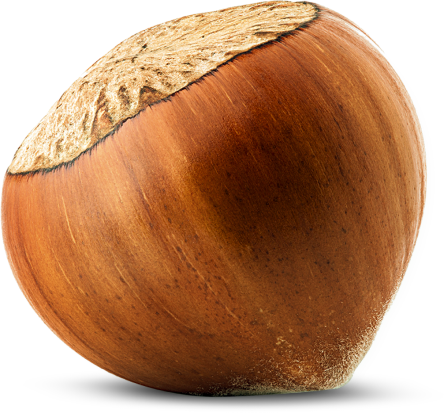
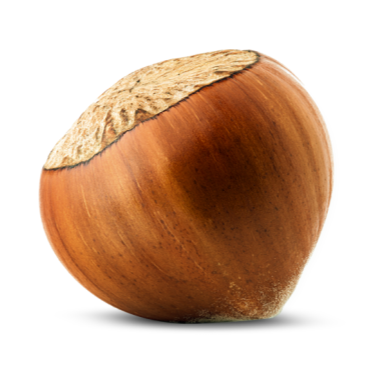
pause

diff --git a/Html.MixedNuts/javascript/cardsNutsData.js b/Html.MixedNuts/javascript/cardsNutsData.js
@@ -126,67 +126,6 @@ define([
       gCardConfigs.push(cardConfig);
     }
 
-    // Normal nut: "thinking about it" side.
-    for (var i = 0; i < gameInfo.nutTypesArray.length; i++) {
-      var nutType = gameInfo.nutTypesArray[i];
-      var cardConfig = getBasicConfigForNutType(nutType);
-      cardConfig.classes.push("question");
-      cardConfig.classes.push("decorated");
-      cardConfig.question = true;
-      gCardConfigs.push(cardConfig);
-    }
-
-    // Board markers
-    var requiredPlacementNutTypes = [
-      gameInfo.nutTypes.Cashew,
-      gameInfo.nutTypes.Almond,
-      gameInfo.nutTypes.Macadamia,
-      gameInfo.nutTypes.Pistachio,
-      gameInfo.nutTypes.Walnut,
-    ];
-    // Must be <this nut>
-    for (var i = 0; i < requiredPlacementNutTypes.length; i++) {
-      var nutType = requiredPlacementNutTypes[i];
-      var cardConfig = getBasicConfigForNutType(nutType);
-      cardConfig.classes.push("required");
-      cardConfig.classes.push("decorated");
-      cardConfig.classes.push("space-config");
-      cardConfig.required = true;
-      gCardConfigs.push(cardConfig);
-    }
-
-    var bonusPlacementNutTypes = [
-      gameInfo.nutTypes.Peanut,
-      gameInfo.nutTypes.Cashew,
-      gameInfo.nutTypes.Almond,
-      gameInfo.nutTypes.Macadamia,
-      gameInfo.nutTypes.Pistachio,
-      gameInfo.nutTypes.Walnut,
-    ];
-    // bonus for "this nut".
-    for (var i = 0; i < bonusPlacementNutTypes.length; i++) {
-      var nutType = bonusPlacementNutTypes[i];
-      var cardConfig = getBasicConfigForNutType(nutType);
-      cardConfig.classes.push("bonus");
-      cardConfig.classes.push("decorated");
-      cardConfig.classes.push("space-config");
-      cardConfig.bonus = 5;
-      gCardConfigs.push(cardConfig);
-    }
-
-    // Must be same or different.
-    var cardsEqualConfig = {};
-    cardsEqualConfig.classes = ["nuts", "card", "space-config", "equal"];
-    cardsEqualConfig.mustMatch = true;
-    cardsEqualConfig.color = "#abacab";
-    gCardConfigs.push(cardsEqualConfig);
-
-    var cardsNotEqualConfig = {};
-    cardsNotEqualConfig.classes = ["nuts", "card", "space-config", "not-equal"];
-    cardsNotEqualConfig.mustMatch = false;
-    cardsNotEqualConfig.color = "#fe6060";
-    gCardConfigs.push(cardsNotEqualConfig);
-
     return gCardConfigs;
   }
 

diff --git a/Html.MixedNuts/css/cards-nuts-simple.css b/Html.MixedNuts/css/cards-nuts-simple.css
@@ -11,11 +11,6 @@
   border-radius: 50%;
 }
 
-.card.front.nuts.space-config,
-.card.back.nuts.space-config {
-  border-radius: 20%;
-}
-
 .card.front.nuts {
   display: flex;
   flex-direction: column;
@@ -26,38 +21,11 @@
   border-style: solid;
   overflow: visible;
 }
-.card.front.nuts .equal,
-.card.front.nuts .not-equal {
-  color: #000000;
-  -webkit-text-stroke: 2px #ffff00;
-  font-size: 140px;
-}
-.card.front.nuts .not-equal {
-  -webkit-text-stroke: 4px #ffff00;
-}
 .card.front.nuts .drop_shadow.pseudo-image {
   filter: drop-shadow(3px 3px 6px rgba(0, 0, 0, 0.4));
 }
-.card.front.nuts .space-config {
-  display: flex;
-  flex-direction: column;
-  justify-content: center;
-  align-items: center;
-  position: absolute;
-  z-index: 30;
-  color: #000000;
-  -webkit-text-stroke: 2px #ffff00;
-  font-size: 100px;
-  top: 0px;
-  left: 20px;
-}
-.card.front.nuts .space-config.bonus {
-  font-size: 80px;
-  left: 0px;
-}
 .card.front.nuts .main-wrapper {
   z-index: 1;
-  margin-top: 30px;
   width: 100%;
   height: 75%;
   display: inline-flex;
@@ -125,20 +93,6 @@
   align-items: center;
   white-space: pre-line;
   line-height: 1;
-}
-
-.card.front.nuts.macadamia .craft-wrapper .collectible-item-set .collectible-item,
-.card.front.nuts.double-macadamia .craft-wrapper .collectible-item-set .collectible-item {
-  margin-left: -20px;
-  margin-right: -20px;
-}
-.card.front.nuts.macadamia .craft-wrapper .collectible-item-set .collectible-item.index-0,
-.card.front.nuts.double-macadamia .craft-wrapper .collectible-item-set .collectible-item.index-0 {
-  margin-top: 0px;
-}
-.card.front.nuts.macadamia .craft-wrapper .collectible-item-set .collectible-item.index-1,
-.card.front.nuts.double-macadamia .craft-wrapper .collectible-item-set .collectible-item.index-1 {
-  margin-bottom: 40px;
 }
 
 .card.back.nuts {

diff --git a/Html.MixedNuts/scss/cards-nuts-simple.scss b/Html.MixedNuts/scss/cards-nuts-simple.scss
@@ -11,11 +11,6 @@
   border-radius: 50%;
 }
 
-.card.front.nuts.space-config,
-.card.back.nuts.space-config {
-  border-radius: 20%;
-}
-
 .card.front.nuts {
   display: flex;
   flex-direction: column;
@@ -27,51 +22,12 @@
   border-style: solid;
   overflow: visible;
 
-  .equal,
-  .not-equal {
-    // font-family: "Arial", sans-serif;
-    color: #000000;
-    -webkit-text-stroke: 2px #ffff00;
-    font-size: 140px;
-  }
-
-  .not-equal {
-    -webkit-text-stroke: 4px #ffff00;
-  }
-
-
   .drop_shadow.pseudo-image {
     filter: drop-shadow(3px 3px 6px rgba(0, 0, 0, 0.4));
   }
 
-  .space-config {
-    display: flex;
-    flex-direction: column;
-    justify-content: center;
-    align-items: center;
-    position: absolute;
-    z-index: 30;
-    color: #000000;
-    -webkit-text-stroke: 2px #ffff00;
-    font-size: 100px;
-    top: 0px;
-    left: 20px;
-  }
-
-  .space-config.card.back.nuts {}
-
-  .space-config.required {}
-
-  .space-config.bonus {
-    font-size: 80px;
-    left: 0px;
-
-
-  }
-
   .main-wrapper {
     z-index: 1;
-    margin-top: 30px;
     width: 100%;
     height: 75%;
     display: inline-flex;
@@ -145,28 +101,6 @@
         align-items: center;
         white-space: pre-line;
         line-height: 1;
-      }
-    }
-  }
-}
-
-
-.card.front.nuts.macadamia,
-.card.front.nuts.double-macadamia {
-  .craft-wrapper {
-
-    .collectible-item-set {
-      .collectible-item {
-        margin-left: -20px;
-        margin-right: -20px;
-      }
-
-      .collectible-item.index-0 {
-        margin-top: 0px;
-      }
-
-      .collectible-item.index-1 {
-        margin-bottom: 40px;
       }
     }
   }

diff --git a/Html.MixedNuts/javascript/cardsNutsSimple.js b/Html.MixedNuts/javascript/cardsNutsSimple.js
@@ -112,44 +112,10 @@ define([
   function addFields(parent, cardConfig) {
     debugLog("addFields", "cardConfig = " + JSON.stringify(cardConfig));
 
-    if (cardConfig.mustMatch !== undefined) {
-      if (cardConfig.mustMatch) {
-        htmlUtils.addDiv(
-          parent,
-          ["must-match", "equal", "decorated"],
-          "must-match",
-          "=",
-        );
-      } else {
-        htmlUtils.addDiv(
-          parent,
-          ["must-match", "not-equal", "decorated"],
-          "must-match",
-          "≠",
-        );
-      }
-      return;
-    }
-
     var mainWrapper = htmlUtils.addDiv(parent, ["main-wrapper"], "mainWapper");
     // These are the icons in upper left and lower corner of card.
     addCardImageNode(mainWrapper, cardConfig);
     addTitleNode(parent, cardConfig);
-
-    if (cardConfig.question) {
-      htmlUtils.addDiv(parent, ["space-config", "question"], "question", "?");
-    }
-    if (cardConfig.required) {
-      htmlUtils.addDiv(parent, ["space-config", "required"], "required", "!");
-    }
-    if (cardConfig.bonus) {
-      htmlUtils.addDiv(
-        parent,
-        ["space-config", "bonus"],
-        "bonus",
-        `+${cardConfig.bonus}` + gameInfo.coinString,
-      );
-    }
   }
 
   function addCardBack(parent) {

diff --git a/Html.MixedNuts/v1/cards-nuts-simple.html b/Html.MixedNuts/v1/cards-nuts-simple.html
@@ -76,7 +76,11 @@
         cards.addCards(
           cardsNutsData.getNumCards(),
           cardsNutsSimple.addCardFront,
-          [],
+          [
+            {
+              callback: cardsNutsSimple.addCardBack,
+            },
+          ],
         );
       });
     </script>
